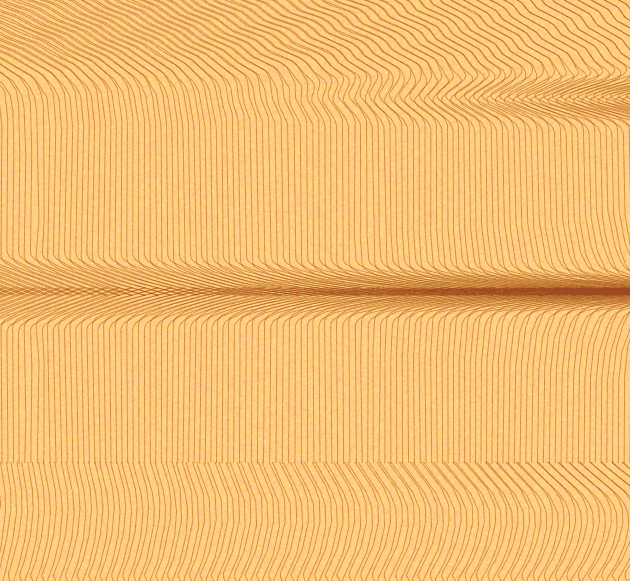
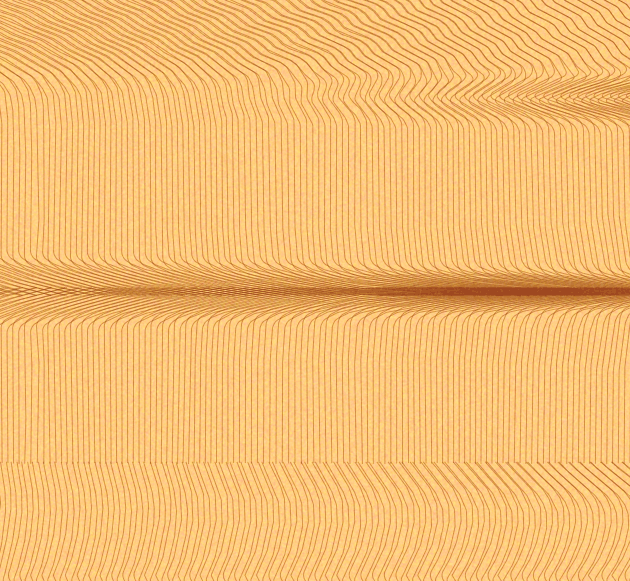
cp-eras-ui: veneer, the panel's fold leans the right way and the store streak's core thins
The dashboard panel's fold leaned down-right where the reference's
lines run down-left; it is rebuilt from two ramp terms and a strip cut
across the grain, with the knee row on the reference's. The store
card's core now starts at x 500 and thins toward the right. The other
four textures are byte-identical. Goldens follow.

diff --git a/home/common/pkgs/cp-eras-ui/scripts/make-veneer.py b/home/common/pkgs/cp-eras-ui/scripts/make-veneer.py
@@ -23,8 +23,12 @@ drawn with the *line, ground and grain* measured for the blend generator.
    t = ts, profile exp(-(d/w)^p), or a knee exp(-(d^2 + 2cd)) whose
    corner is a crease), `lean` (one-sided: past `ts`, which may vary
    across the grain, the lines run at slope `amount`, steepening by
-   `accel` -- the run into a streak, crossing the axis), `fold` (the
-   panel ridge), `shear` (lean off an edge), `ripple` (zigzag), `knot`.
+   `accel` -- the run into a streak, crossing the axis), `ramp` (a band
+   between two curves across which the lines step sideways: the panel's
+   sweep and crease), `fold` (a ridge), `shear` (lean off an edge),
+   `ripple` (zigzag), `knot`. Amounts and curves may be piecewise linear
+   across the grain ([(s, value), ...]). A family may also be cut to a
+   strip across the grain (`swindow`); its lines end at the cut, a jog.
 
 2. Lines. The lines are the levels phi = (k + offset) * pitch: constant
    pitch away from the figure, `pitch` the measured per-comb spacing
@@ -79,6 +83,15 @@ SPACING = dict(amp=0.0, cell=6.0, along=150.0)
 QUANT = dict(step=30.0, hyst=3.0, tol=0.5, radius=9.5)
 CORE = (150.0, 61.0, 30.0)   # the store streak core, darkest compounded ink
 
+# The store streak (2026-11-15 refit): the lean's acceleration and the
+# core bend peak at s ~208-235 (native crop x 500-565) and ease off at the
+# right edge, so the core is darkest mid-card and thins to the right, as
+# the reference's spindle does (it was thickest at the edge).
+STREAK_LEAN = dict(kind='lean', ts=(110.0, 115.5), w=1.2, amount=(-2.8, -3.0),
+                   accel=[(0.0, 0.0), (150.0, -0.45), (208.0, -1.6), (235.0, -1.6), (262.0, -1.3)])
+STREAK_BEND = dict(kind='bend', ts=121.46, w=16.0, p=2.0,
+                   amount=[(0.0, 0.0), (200.0, -3.0), (235.0, -4.0), (262.0, -3.5)])
+
 SURFACES = {
     # Store, the selected card's body and socket band (262.1 x 241.7).
     # Vertical grain; the streak at t 121.46 (texel 291.5) is a book-match:
@@ -97,13 +110,9 @@ SURFACES = {
                 dict(kind='shear', ts=34.0, w=4.0, amount=(2.0, 1.2)),
                 dict(kind='ripple', ts=32.0, w=4.0, amount=1.8, wavelength=(14.0, 45.0)),
                 dict(kind='bend', ts=42.0, w=6.0, p=2.0, amount=(0.0, 40.0), power=3.0),
-                dict(kind='lean', ts=(110.0, 115.5), w=1.2, amount=(-2.8, -3.0), accel=(0.0, -2.0), accel_power=2.5),
-                dict(kind='bend', ts=121.46, w=16.0, p=2.0, amount=(0.0, -8.0), power=4.0),
+                STREAK_LEAN, STREAK_BEND,
             ]),
-            dict(mirror=121.46, window=(119.9, 192.6), terms=[
-                dict(kind='lean', ts=(110.0, 115.5), w=1.2, amount=(-2.8, -3.0), accel=(0.0, -2.0), accel_power=2.5),
-                dict(kind='bend', ts=121.46, w=16.0, p=2.0, amount=(0.0, -8.0), power=4.0),
-            ]),
+            dict(mirror=121.46, window=(119.9, 192.6), terms=[STREAK_LEAN, STREAK_BEND]),
             dict(window=(192.6, None), terms=[
                 dict(kind='bend', ts=192.6, w=16.0, c=0.3, amount=(4.0, 26.0), power=1.5, real=True),
                 dict(kind='bend', ts=241.7, w=18.0, amount=(8.0, 14.0), real=True),
@@ -136,10 +145,19 @@ SURFACES = {
         ],
     ),
     # Dashboard, the right-hand EMAIL panel body (230.4 x 309). Vertical
-    # grain, book-matched about its middle (t 154.4, texel 370.5): the lower
-    # leaf folds in its lower third -- lines lean down-left above a ridge
-    # from local (184, 259) to (84, 299), turn at it, and open below it --
-    # and the upper leaf is its mirror.
+    # grain, book-matched about its middle (t 154.4, texel 370.5). The lower
+    # leaf's fold (2026-11-15 refit, traced off the reference): the lines
+    # knee down-LEFT at a row from (15, 221) to (188, 261) and sweep nearly
+    # horizontal (ramp A1) to a crease from (83, 287) up to the tip at
+    # (188, 262); below it they run on down-left (ramp R2), and in the
+    # bottom-left corner nearly horizontal again, with a jog at s ~85
+    # where R2's amount drops. Right of s 187.5 a separate strip (the
+    # reference's vertical jog at native x ~450) whose lines only knee
+    # to a gentle lean below the crease tip. A1's amount tapers towards
+    # the strip edge by less than 1 per px, so the field stays monotone
+    # across the grain and few lines enter the crease from the strip
+    # edge. The upper leaf mirrors the grain but not the fold, which the
+    # reference's top half lacks.
     'dashboard-panel': dict(
         size=(230.4, 309.0), axis='v', seed=1202, pitch=10.2 / R,
         twin=dict(offset=0.42, shift=-1.5),
@@ -147,13 +165,22 @@ SURFACES = {
         wave=dict(amp=1.8, along=200.0, across=50.0),
         kinks=dict(n=10, amp=1.0, rs=(3.0, 9.0), rt=(5.0, 14.0)),
         families=[
-            dict(window=(153.4, None), terms=[
-                dict(kind='fold', at=(84.0, 299.0), to=(184.0, 259.0), beyond=(-0.25, 0.05),
-                     w=22.0, c=0.25, below=70.0, amount=(-10.0, -110.0)),
-                dict(kind='bend', ts=309.0, w=30.0, amount=(-10.0, -2.0)),
+            dict(window=(153.4, None), swindow=(None, 187.6), terms=[
+                dict(kind='ramp', k=2.0,
+                     a=[(14.6, 220.8), (56.2, 225.0), (97.9, 230.4), (139.6, 243.8), (170.8, 256.7), (187.5, 260.8)],
+                     b=[(14.6, 261.7), (56.2, 275.8), (83.3, 286.7), (97.9, 281.2), (139.6, 272.9), (170.8, 265.0), (187.5, 262.5)],
+                     amount=[(14.6, 95.0), (56.2, 125.0), (97.9, 105.0), (139.6, 70.0), (187.5, 30.0)]),
+                dict(kind='ramp', k=2.0,
+                     a=[(0.0, 288.3), (83.3, 288.3), (97.9, 282.1), (139.6, 273.8), (170.8, 267.5), (187.5, 264.2)],
+                     b=[(0.0, 329.2), (83.3, 333.3)],
+                     amount=[(14.6, 220.0), (79.2, 150.0), (93.8, 70.0), (187.5, 60.0)]),
             ]),
-            # The upper leaf mirrors the lower one's grain (its wander and
-            # jogs) but not the fold, which the reference's top half lacks.
+            dict(window=(153.4, None), swindow=(187.4, None), terms=[
+                dict(kind='ramp', k=3.0, a=[(187.5, 260.4), (230.4, 266.7)], b=[(187.5, 291.7), (230.4, 316.7)],
+                     amount=[(187.5, 40.0), (230.4, 30.0)]),
+                dict(kind='ramp', k=3.0, a=[(187.5, 291.7), (230.4, 316.7)], b=[(0.0, 341.7)],
+                     amount=[(187.5, 20.0), (230.4, 20.0)]),
+            ]),
             dict(mirror=154.4, window=(None, 155.4), terms=[
                 dict(kind='bend', ts=0.0, w=30.0, amount=(10.0, 0.0), real=True),
             ]),
@@ -262,10 +289,19 @@ class Lattice:
 
 def across(s, S, amount, power=1.0):
     """Across the grain: amount[0] at s = 0, amount[1] at s = S, linear
-    or, with `power` > 1, gathered towards s = S."""
+    or, with `power` > 1, gathered towards s = S; a list of (s, value)
+    points is piecewise linear instead."""
+    if isinstance(amount, list):
+        return pw(s, amount)
     a0, a1 = amount
     return a0 + (a1 - a0) * np.clip(s / S, 0.0, 1.0) ** power
 
+
+
+def pw(s, pts):
+    """Piecewise linear in s through [(s, value), ...], flat beyond."""
+    xs, ys = zip(*pts)
+    return np.interp(s, xs, ys)
 
 
 class Surface:
@@ -348,6 +384,17 @@ def family_phi(surf, fam, s, t):
                 zb = np.maximum(tt - line, 0.0) / term['below']
                 prof = np.where(tt < line, prof, np.exp(-zb))
             phi = phi + across(s, S, term['amount']) * prof
+        elif kind == 'ramp':
+            # A band across the grain between the curves t = a(s) and
+            # t = b(s) (piecewise linear through the given (s, t) points)
+            # inside which the lines lean at amount / (b - a): D steps by
+            # `amount` (also piecewise in s) over the band, with softplus
+            # knees `k` wide at both edges. Stacked ramps give the panel's
+            # sweep, its crease and the run below it.
+            a = pw(s, term['a']); b = pw(s, term['b'])
+            k = term.get('k', 2.0)
+            u = (k * np.logaddexp(0.0, (tt - a) / k) - k * np.logaddexp(0.0, (tt - b) / k)) / np.maximum(b - a, 1e-6)
+            phi = phi + pw(s, term['amount']) * u
         elif kind == 'shear':
             # One-sided: beyond ts, on the side t < ts, the lines lean
             # at `amount` (ds/dt); on the other side they run straight;
@@ -362,7 +409,7 @@ def family_phi(surf, fam, s, t):
             # `accel` (ds/dt per px) steepens the lean further on, so the
             # lines flatten as they near the seam and pile into it.
             ts = term['ts']
-            ts = across(s, S, ts) if isinstance(ts, tuple) else ts
+            ts = across(s, S, ts) if isinstance(ts, (tuple, list)) else ts
             z = (tt - ts) / term['w']
             d = term['w'] * np.logaddexp(0.0, z)
             lean = across(s, S, term['amount'], term.get('power', 1.0)) * d
@@ -407,10 +454,15 @@ def phi_at(surf, fam, s, t, twin):
 
 def shifted(term, dt):
     term = dict(term)
-    if isinstance(term.get('ts'), tuple):
+    if isinstance(term.get('ts'), list):
+        term['ts'] = [(x, v + dt) for x, v in term['ts']]
+    elif isinstance(term.get('ts'), tuple):
         term['ts'] = tuple(v + dt for v in term['ts'])
     elif 'ts' in term:
         term['ts'] = term['ts'] + dt
+    if term['kind'] == 'ramp':
+        term['a'] = [(x, y + dt) for x, y in term['a']]
+        term['b'] = [(x, y + dt) for x, y in term['b']]
     if 'at' in term and term['kind'] == 'fold':
         term['at'] = (term['at'][0], term['at'][1] + dt)
         term['to'] = (term['to'][0], term['to'][1] + dt)
@@ -424,7 +476,12 @@ def domain(surf, fam):
     t0, t1 = fam.get('window', (None, None))[:2]
     ta = -m if t0 is None else max(t0, -m)
     tb = surf.T + m if t1 is None else min(t1, surf.T + m)
-    return (-m, surf.S + m, ta, tb)
+    # An optional window across the grain: a strip whose lines end at
+    # its edges, a vertical jog where it meets its neighbour.
+    u0, u1 = fam.get('swindow', (None, None))
+    sa = -m if u0 is None else max(u0, -m)
+    sb = surf.S + m if u1 is None else min(u1, surf.S + m)
+    return (sa, sb, ta, tb)
 
 
 def trace_family(surf, fam, twin):

diff --git a/home/common/pkgs/cp-eras-ui/docs/neokitsch/veneer-texture.md b/home/common/pkgs/cp-eras-ui/docs/neokitsch/veneer-texture.md
@@ -91,6 +91,49 @@ extensive; the EMAIL crossing is narrower and its right-edge core lighter;
 the mailbox and SMG seams are thinner creases than the reference's hooks;
 overall the reference reads a little darker (more lines in the figure).
 
+### Refinement (2026-11-15, after the merge)
+
+Two surfaces refit; the other four PNGs are byte-identical.
+
+- **Panel fold.** The committed fold leaned the wrong way: traced with a
+  structure tensor on the reference (native crop, 15 px rows), the lines
+  above the crease run down-*left* (angle +40..+82 deg from vertical),
+  ours ran down-right (-40..-89). The fold is now two `ramp` terms, a new
+  kind: a band between curves `a(s)` and `b(s)` across which the lines
+  step sideways by `amount`, softplus knees `k` at both edges (curves and
+  amounts piecewise linear across the grain, `[(s, v), ...]`). A1: knee
+  row from (14.6, 220.8) to (187.5, 260.8) design px, crease from
+  (83.3, 286.7) up to the tip at (187.5, 262.5), amount 95 / 125 / 105 /
+  70 / 30 at s 14.6 / 56.2 / 97.9 / 139.6 / 187.5. R2 below the crease,
+  to t ~330, amount 220 at the left falling to 150 at s 79 and 70 at
+  s 94 (the drop makes the bottom-left jog at native x ~200), 60 at the
+  tip. Right of s 187.5 a separate strip (`swindow`, new: a family cut
+  across the grain; its lines end at the cut, the reference's jog at
+  native x ~450) that only knees to a gentle lean (amount 40 then 20).
+  A1 tapers towards the strip edge by less than 1 per px: a steeper
+  taper makes `phi` non-monotone across the grain and the lines hairpin;
+  a large amount at the edge feeds lines into the crease from the strip
+  edge, a solid dark wedge. Knee row (first row off vertical) reference /
+  committed / now at native x 35, 235, 435: 530, 553, 605 / none (the
+  committed fold starts ~560 at the right only) / 515-530, 545, 590.
+  Not mirrored into the upper leaf: checked, the reference's upper half
+  under the text is vertical grain with only small edge bends.
+- **Store streak.** `STREAK_LEAN`'s `accel` and `STREAK_BEND`'s amount are
+  piecewise now, peaking at s 208-235 and easing at the right edge:
+  accel 0 / -0.45 / -1.6 / -1.6 / -1.3 at s 0 / 150 / 208 / 235 / 262,
+  bend 0 / -3 / -4 / -3.5 at s 0 / 200 / 235 / 262. Pixels per column
+  with G < 80 (G < 140), x 200 ... 620 as above: reference 3(10) 0(13)
+  0(25) 7(22) 9(19) 4(25) 3(30); third pass 0(12) 0(13) 0(18) 3(22)
+  6(23) 7(25) 7(25); now 0(8) 0(15) 1(23) 7(25) 7(25) 5(25) 3(22).
+
+Still wrong after it: the panel's crease is a soft convergence, not the
+reference's thin dark line, and the lines below it run flatter (~75 deg
+against 30-60); the store core is not pointed and the reference's knees
+rise towards the right edge (ours are level; raising them widened the
+band past the reference's G < 140 counts); the store card's upper streak
+and zigzag, the EMAIL crossing, the small surfaces' seams and the
+overall line density were not revisited.
+
 ## Surfaces
 
 | Texture | Surface | Design box | Texels |
